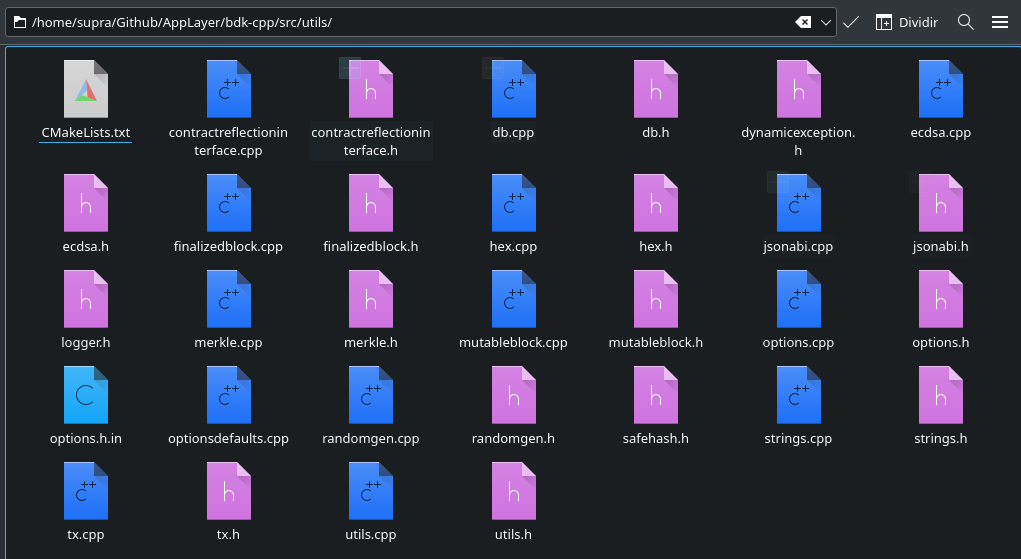
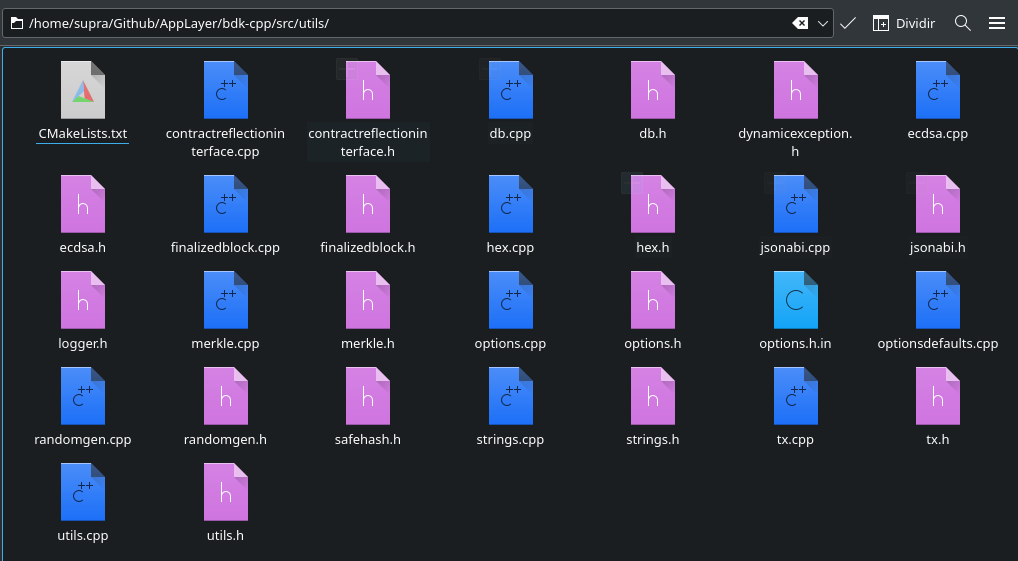
Remove MutableBlock, add RandomnessTest, update compile instructions

diff --git a/bdk-implementation/the-utils-folder.md b/bdk-implementation/the-utils-folder.md
@@ -8,11 +8,11 @@ This subchapter contains a brief overview of each one of the components inside t
 
 <figure><img src="../.gitbook/assets/utils-folder.png" alt=""><figcaption></figcaption></figure>
 
-## FinalizedBlock and MutableBlock
+## FinalizedBlock
 
-The `finalizedblock.h` and `mutableblock.h` files contain the **FinalizedBlock** and **MutableBlock** classes respectively - those abstract the structure of a block sent through the network and stored in the blockchain. The main difference is that a _mutable_ block can have its data changed at any point, while a _finalized_ block is inherently final and cannot be modified anymore once constructed.
+The `finalizedblock.h` file contains the **FinalizedBlock** class - an abstraction of the structure of a block sent through the network and stored in the blockchain. A finalized block is inherently *final* - it cannot be modified anymore after construction.
 
-The classes only contain the bare structure and data of a block - they don't do any kind of operation, validation or verification on it. _Mutable_ blocks are only used during operations involving rdPoS (e.g. State, Syncer and Validator operations), while _finalized_ blocks are used everywhere else in the project, especially in Storage, to ensure block state integrity across all nodes.
+The class only contains the bare structure and data of a block - it doesn't do any kind of operation, validation or verification on it. Having only finalized blocks across the entire project ensures block state integrity across all nodes.
 
 ## ContractReflectionInterface
 

diff --git a/understanding-contracts/setting-up-the-development-environment.md b/understanding-contracts/setting-up-the-development-environment.md
@@ -89,7 +89,7 @@ You can follow these steps to build the BDK in your own system. Dependencies are
 
 * **GCC** with support for **C++23** or higher
 * **CMake 3.19.0** or higher
-* **Boost 1.74** or higher (components: _chrono, filesystem, program-options, system, thread, nowide_)
+* **Boost 1.83** or higher (components: *chrono, filesystem, program-options, system, thread, nowide*)
 * **OpenSSL 1.1.1**
 * **CryptoPP 8.2.0** or higher
 * **libscrypt**
@@ -98,7 +98,19 @@ You can follow these steps to build the BDK in your own system. Dependencies are
 * **tmux** (for deploying)
 * (optional) **clang-tidy** for linting
 
-Here's a one-liner that should work on Debian 12 (Bookworm) or greater, as well as its derived distributions:
+The versions of those dependencies should suffice out-of-the-box for at least the following distros (or greater, including their derivatives):
+
+* **Debian 13 (Trixie)**
+* **Ubuntu 24.04 LTS (Noble Numbat)**
+* **Linux Mint 22 (Wilma)**
+* **Fedora 40**
+* Any rolling release distro from around **May 2024** onwards (check their repos to be sure)
+
+For older distros, you may need to compile some dependencies from source (specifically CMake and Boost). Make sure to uninstall them from the system first to prevent any version conflicts.
+
+#### One-liners
+
+* For APT-based distros:
 
 ```bash
 sudo apt install git build-essential cmake tmux clang-tidy autoconf libtool pkg-config libboost-all-dev libcrypto++-dev libscrypt-dev libsnappy-dev libssl-dev zlib1g-dev openssl

diff --git a/precompiled-contracts/dynamic-and-protocol-contracts.md b/precompiled-contracts/dynamic-and-protocol-contracts.md
@@ -28,6 +28,7 @@ AppLayer's BDK provides ready-to-use templates for the following Dynamic Contrac
 There are also specific contracts that only exist for internal testing purposes and are not meant to be used as templates:
 
 * `SimpleContract` (template for a simple contract, used for both testing and teaching purposes)
+* `RandomnessTest` (template for testing random number generation)
 * `ERC721Test` (derivative contract meant to test the capabilities of the ERC721 template)
 * `TestThrowVars` (contract meant to test SafeVariable commit/revert functionality using exception throwing)
 * `ThrowTestA/B/C` (contracts meant to test nested call revert functionality)
@@ -60,7 +61,7 @@ Given the example Solidity contract:
 ```cpp
 // SPDX-License-Identifier: MIT
 pragma solidity ^0.8.10;
- 
+
 contract ExampleContract {
     mapping(address => uint256) values;c
     function setValue(address addr, uint256 value) external {
@@ -95,7 +96,7 @@ class ExampleContract : public DynamicContract {
 
 ```cpp
 #include "ExampleContract.h"
- 
+
 ExampleContract(
   const Address& contractAddress, const uint64_t& chainId,
   std::unique_ptr<ContractManager> &contractManager,
@@ -125,7 +126,7 @@ void ExampleContract::callContractWithTransaction(const Tx& transaction) {
     this->setValue(ABI::Decoder::decodeAddress(txData, 8), ABI::Decoder::decodeUint256(txData, 8 + 32));
   }
   return;
-}              
+}
 ```
 
 ## The BaseContract class

diff --git a/bdk-implementation/README.md b/bdk-implementation/README.md
@@ -45,6 +45,7 @@ src
 │   │   ├── erc721.h (ERC721)
 │   │   ├── erc721test.h (ERC721Test, used solely for testing purposes)
 │   │   ├── nativewrapper.h (NativeWrapper)
+│   │   ├── randomnesstest.h (RandomnessTest)
 │   │   ├── simplecontract.h (SimpleContract)
 │   │   ├── testThrowVars.h (TestThrowVars, used solely for testing purposes)
 │   │   └── throwtestA.h, throwtestB.h, throwtestC.h (for testing CM nested calls)
@@ -75,6 +76,7 @@ src
 │   ├── grpcclient.h (gRPCClient)
 │   ├── grpcserver.h (gRPCServer)
 │   ├── http (HTTP part of networking)
+│   │   ├── httpclient.h (HTTPClient)
 │   │   ├── httplistener.h (HTTPListener)
 │   │   ├── httpparser.h (parser functions for HTTP requests)
 │   │   ├── httpserver.h (HTTPServer)
@@ -103,7 +105,6 @@ src
     ├── jsonabi.h (JsonAbi - namespace for writing contract ABIs to JSON format)
     ├── logger.h (LogType, Log, LogInfo, Logger)
     ├── merkle.h (Merkle)
-    ├── mutableblock.h (MutableBlock)
     ├── options.h (Options singleton - generated by CMake through a .in file)
     ├── randomgen.h (RandomGen)
     ├── safehash.h (SafeHash, FNVHash)
